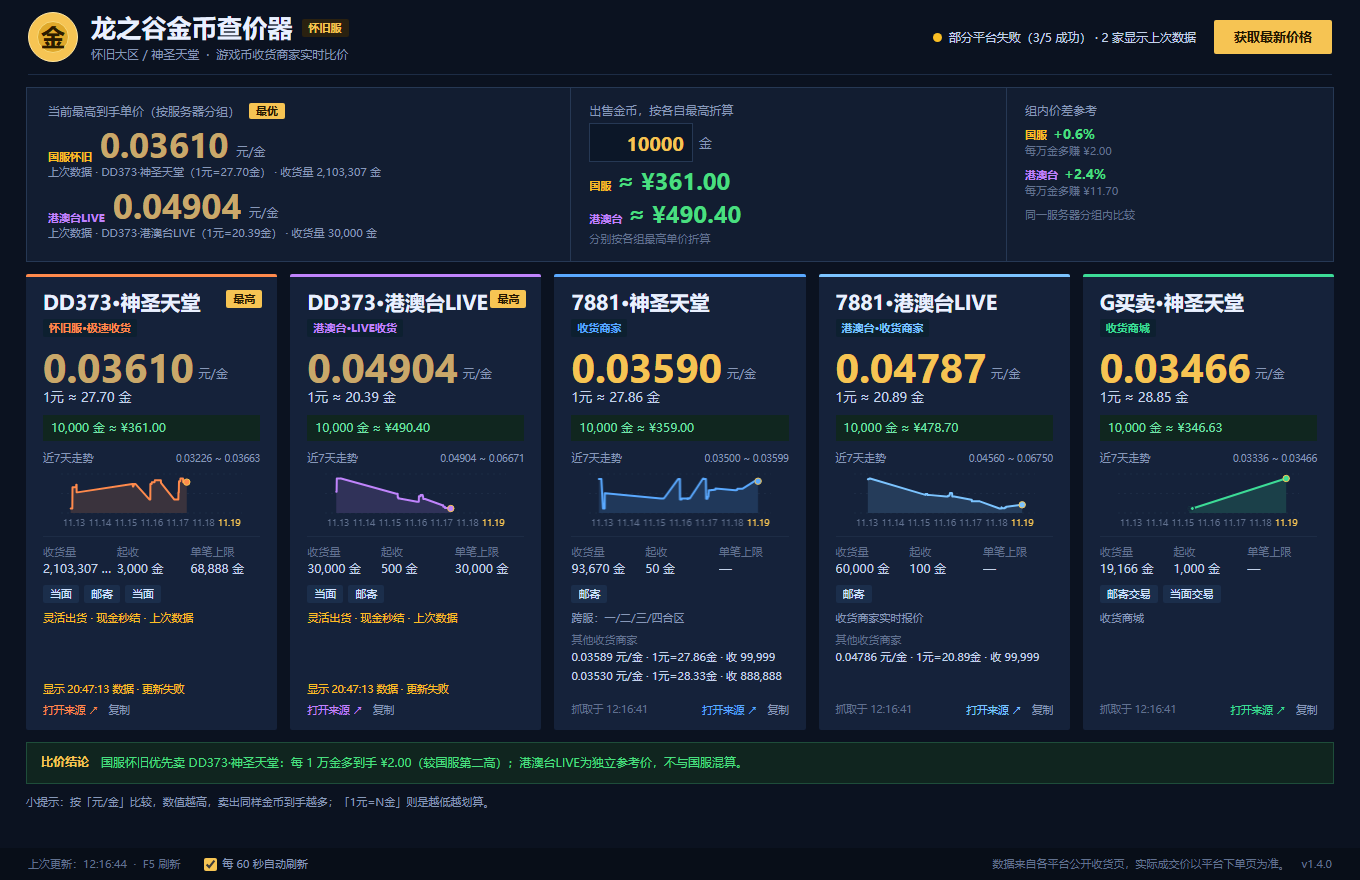
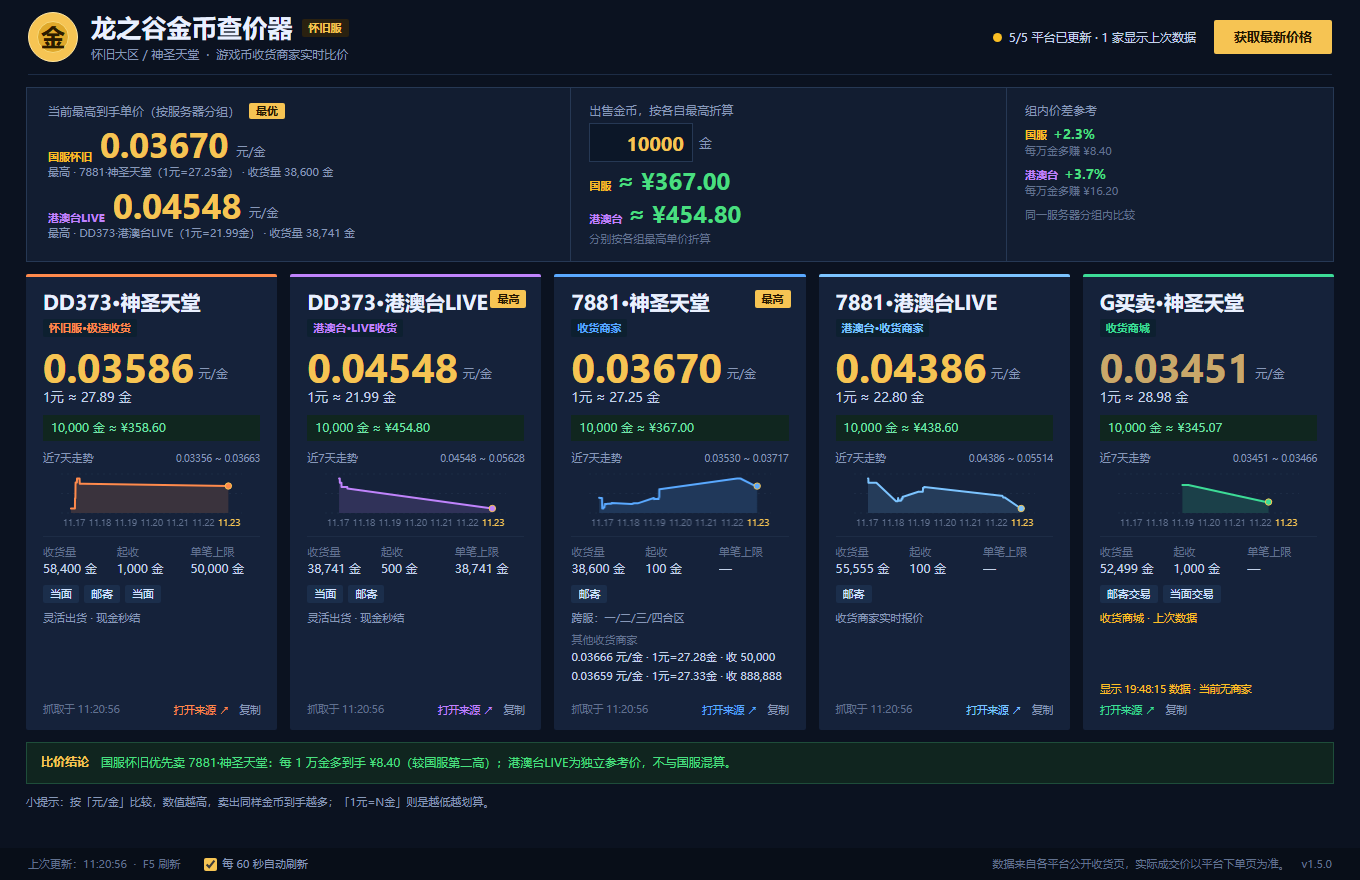
fix: use browser TLS fingerprint for DD373 (v1.5.0)
根因：DD373 的阿里云 WAF 按 TLS 指纹判定机器人，同一 IP 用浏览器正常、
用 urllib/.NET 只返回滑动验证页，与频率无关。

- 新增 CffiSession，用 curl_cffi impersonate=chrome 抓 DD373/DD373tw
- 7881、G买卖 继续用标准库（一直稳定）
- Windows 中文路径下 certifi 无法被 libcurl 读取时自动复制到 ASCII 路径
- DD373 间隔放宽到 300s，退避 10/20/30 分钟
- Dockerfile 增加 curl_cffi 与 ca-certificates（ARM64 有预编译 wheel）

diff --git a/app/goldpricer/fetchers.py b/app/goldpricer/fetchers.py
@@ -8,6 +8,7 @@ from __future__ import annotations
 
 import gzip
 import json
+import os
 import re
 import socket
 import threading
@@ -25,6 +26,13 @@ from lxml import html as lxml_html
 
 from . import config
 from .models import Offer, PlatformResult
+
+# curl_cffi 用来复刻真实浏览器的 TLS/HTTP2 指纹。
+# 没装时退回标准库，此时 DD373 只会拿到 WAF 的滑动验证页。
+try:
+    from curl_cffi import requests as _cffi_requests
+except Exception:  # noqa: BLE001
+    _cffi_requests = None
 
 
 UA = (
@@ -201,6 +209,118 @@ class HttpSession:
         return self._read(Request(url, data=body, headers=headers, method="POST"), timeout)
 
 
+_CA_CACHE: dict[str, object] = {}
+
+
+def _ca_bundle():
+    """给 libcurl 用的 CA 路径。
+
+    Windows 下如果项目路径含中文，libcurl 打不开 certifi 的 cacert.pem
+    （报 error adding trust anchors），所以先判断路径是否为纯 ASCII，
+    不是就复制一份到纯 ASCII 的临时目录。
+    """
+    if "path" in _CA_CACHE:
+        return _CA_CACHE["path"]
+    _CA_CACHE["path"] = True
+    try:
+        import shutil
+        import tempfile
+
+        import certifi
+
+        source = certifi.where()
+        if source.isascii() and os.path.exists(source):
+            _CA_CACHE["path"] = source
+            return source
+        for base in ("/tmp", tempfile.gettempdir(), r"C:\Temp", "/var/tmp"):
+            if not base.isascii() or not os.path.isdir(base):
+                continue
+            target = os.path.join(base, "goldpricer_cacert.pem")
+            try:
+                if not os.path.exists(target):
+                    shutil.copyfile(source, target)
+                _CA_CACHE["path"] = target
+                return target
+            except OSError:
+                continue
+    except Exception:  # noqa: BLE001 - 任何异常都退回 libcurl 默认行为
+        pass
+    return _CA_CACHE["path"]
+
+
+class CffiSession:
+    """用 curl_cffi 复刻真实浏览器的 TLS/HTTP2 指纹。
+
+    DD373 前置阿里云 WAF，会按 TLS 指纹把 Python/.NET 客户端判定为机器人，
+    同样的 IP 用浏览器能正常打开，用 urllib 只会拿到「滑动验证」页。
+    换成 Chrome 指纹后即可正常返回商品列表。
+    """
+
+    def __init__(self, timeout: int = 22, impersonate: str = "chrome"):
+        self.timeout = timeout
+        self._session = _cffi_requests.Session(
+            impersonate=impersonate,
+            timeout=timeout,
+            verify=_ca_bundle(),
+        )
+
+    def close(self) -> None:
+        try:
+            self._session.close()
+        except Exception:  # noqa: BLE001
+            pass
+
+    def _do(self, method: str, url: str, headers: dict, timeout, **kwargs) -> str:
+        try:
+            response = self._session.request(
+                method, url, headers=headers, timeout=timeout or self.timeout, **kwargs
+            )
+        except Exception as exc:  # noqa: BLE001
+            raise FetchError(f"连接失败：{exc}") from exc
+        if response.status_code >= 400:
+            raise FetchError(f"平台返回 HTTP {response.status_code}")
+        return response.text
+
+    def get(
+        self,
+        url: str,
+        referer: Optional[str] = None,
+        timeout: Optional[int] = None,
+        accept: str = "text/html,application/xhtml+xml,application/xml;q=0.9,*/*;q=0.8",
+    ) -> str:
+        headers = {
+            "Accept": accept,
+            "Accept-Language": "zh-CN,zh;q=0.9,en;q=0.6",
+        }
+        if referer:
+            headers["Referer"] = referer
+        return self._do("GET", url, headers, timeout)
+
+    def post_json(
+        self,
+        url: str,
+        payload,
+        referer: Optional[str] = None,
+        timeout: Optional[int] = None,
+    ) -> str:
+        headers = {
+            "Accept": "application/json,text/plain,*/*;q=0.8",
+            "Content-Type": "application/json;charset=UTF-8",
+            "Accept-Language": "zh-CN,zh;q=0.9,en;q=0.6",
+        }
+        if referer:
+            headers["Referer"] = referer
+        body = json.dumps(payload, ensure_ascii=False).encode("utf-8")
+        return self._do("POST", url, headers, timeout, data=body)
+
+
+def _browser_session():
+    """DD373 用浏览器指纹会话，其余平台仍用标准库（一直很稳定）。"""
+    if _cffi_requests is not None:
+        return CffiSession()
+    return HttpSession()
+
+
 class BaseFetcher:
     key = ""
     name = ""
@@ -251,12 +371,16 @@ class Dd373Fetcher(BaseFetcher):
     max_attempts = 1
 
     def __init__(self):
-        self._session = HttpSession()
+        self._session = _browser_session()
         self._warmed = False
         self._lock = threading.Lock()
 
     def _reset(self):
-        self._session = HttpSession()
+        try:
+            self._session.close()
+        except Exception:  # noqa: BLE001
+            pass
+        self._session = _browser_session()
         self._warmed = False
 
     def _warm(self):

diff --git a/app/goldpricer/config.py b/app/goldpricer/config.py
@@ -4,7 +4,7 @@
 import os
 
 APP_NAME = "龙之谷金币查价器"
-APP_VERSION = "1.4.1"
+APP_VERSION = "1.5.0"
 
 GAME_NAME = "龙之谷怀旧服"
 AREA_NAME = "怀旧大区"
@@ -31,12 +31,12 @@ DD373_GAME_ID = "cbk5a5"
 DD373_AREA_ID = "bqufr0"
 DD373_SERVER_ID = "j8cdwa"
 
-# DD373 前置阿里云 WAF，访问过密会让出口 IP 进入「滑动验证」状态，
-# 纯 HTTP 客户端无法通过，只能靠降低频次 + 失败退避来避免触发。
+# DD373 前置阿里云 WAF。抓取已改用 curl_cffi 的 Chrome 指纹（这是能拿到真实
+# 页面的关键），但请求密度仍然不宜太高，失败后也要退避，避免被额外盯上。
 # 单位：秒；可用环境变量覆盖，桌面版不设置时使用下面的默认值。
-DD373_MIN_INTERVAL = int(os.getenv("GOLDPRICER_DD373_INTERVAL", "600"))
-DD373_COOLDOWN_BASE = int(os.getenv("GOLDPRICER_DD373_COOLDOWN", "900"))
-DD373_COOLDOWN_MAX = int(os.getenv("GOLDPRICER_DD373_COOLDOWN_MAX", "3600"))
+DD373_MIN_INTERVAL = int(os.getenv("GOLDPRICER_DD373_INTERVAL", "300"))
+DD373_COOLDOWN_BASE = int(os.getenv("GOLDPRICER_DD373_COOLDOWN", "600"))
+DD373_COOLDOWN_MAX = int(os.getenv("GOLDPRICER_DD373_COOLDOWN_MAX", "1800"))
 
 # 7881（国服怀旧 / 港澳台LIVE 同 gameId，不同 groupId/serverId）
 L7881_URL = (

diff --git a/DOCKER部署说明.md b/DOCKER部署说明.md
@@ -163,35 +163,48 @@ cd /root/dragonnest && docker build -t dragonnest-goldpricer:1.4.0 . \
 | --- | --- | --- |
 | `GOLDPRICER_PORT` | `8090` | 容器内监听端口，改这里要同步改 `-p` 的容器侧端口 |
 | `GOLDPRICER_AUTO_SECONDS` | `60` | 后台抓取周期（秒），页面底部文案会跟着变 |
-| `GOLDPRICER_DD373_INTERVAL` | `600` | DD373 成功抓取后的最小间隔（秒），见下方说明 |
-| `GOLDPRICER_DD373_COOLDOWN` | `900` | DD373 首次失败后的冷却（秒），之后每次翻倍 |
-| `GOLDPRICER_DD373_COOLDOWN_MAX` | `3600` | DD373 冷却上限（秒），达到后不再翻倍 |
+| `GOLDPRICER_DD373_INTERVAL` | `300` | DD373 成功抓取后的最小间隔（秒），见下方说明 |
+| `GOLDPRICER_DD373_COOLDOWN` | `600` | DD373 首次失败后的冷却（秒），之后每次翻倍 |
+| `GOLDPRICER_DD373_COOLDOWN_MAX` | `1800` | DD373 冷却上限（秒），达到后不再翻倍 |
 | `GOLDPRICER_DATA_DIR` | `/data` | 数据目录，改了要同步改卷挂载 |
 | `TZ` | `Asia/Shanghai` | 容器时区 |
 
 端口被占用时只改宿主机侧即可，例如 `-p 8095:8090`，访问就变成 `http://192.168.1.1:8090`。
 
-### 关于 DD373 的抓取节奏
+### 关于 DD373 的抓取（重要）
 
-DD373 站点前面挂了阿里云 WAF。如果按 60 秒一轮全速抓，一天会产生上千次请求，出口 IP 很快会进入“滑动验证”状态——这种验证是拖动滑块，纯 HTTP 客户端过不去，程序只能一直失败。
+DD373 前置阿里云 WAF，它按 **TLS 指纹**识别客户端。同一台电脑、同一个 IP，用浏览器打开列表页完全正常，但 Python 标准库、.NET、curl 这些非浏览器 TLS 栈都会被判定成机器人，返回一个约 1.2 万字节的“滑动验证”页而不是商品列表。
 
-所以 DD373 两个平台单独走慢节奏：
+**这不是 IP 被封，也不是抓取频率太高**——把频率降到 10 分钟一次依然失败，换浏览器指纹的库立刻成功。
 
-- 默认每 10 分钟抓一次（`GOLDPRICER_DD373_INTERVAL=600`），7881 和 G买卖 仍然每 60 秒
-- 失败后自动退避：15 分钟 → 30 分钟 → 60 分钟，成功后计时清零
+所以 DD373 的抓取走 `curl_cffi`，它复刻 Chrome 的 TLS / HTTP2 指纹（`impersonate="chrome"`）。7881 和 G买卖 一直很稳定，仍用标准库。
+
+另外还保留了节奏保护，避免请求密度引来额外风控：
+
+- 默认每 5 分钟抓一次（`GOLDPRICER_DD373_INTERVAL=300`），7881 和 G买卖 仍 60 秒
+- 失败后自动退避：10 分钟 → 20 分钟 → 30 分钟，成功后计时清零
 - 退避期间**完全不发请求**，卡片保留上次价格并提示“约 N 分钟后自动重试”
 
-页面上的 DD373 数据最多会比 7881 慢 10 分钟，这是刻意换来的稳定性。如果确认没被 WAF 盯上，可以把间隔调小：
+代价是镜像多约 14MB（curl_cffi 自带 libcurl），页面上的 DD373 数据最多比 7881 慢 5 分钟。ARM64 有现成的预编译包，路由器上构建不需要编译工具链。
+
+DD373 显示失败时，先在容器里跑一次自检：
 
 ```sh
-docker run ... -e GOLDPRICER_DD373_INTERVAL=180 ...
+docker exec goldpricer python -c "
+from curl_cffi import requests
+r = requests.get('https://www.dd373.com/', impersonate='chrome', timeout=20)
+print(r.status_code, len(r.text))
+"
 ```
 
-如果 DD373 长期显示“触发人机验证”，说明出口 IP 已被标记，可以：
+返回 200 且长度十万级是正常的；如果只有一万多字节，说明又回到了验证页，可以调大间隔或换公网 IP 再试。
 
-1. 停掉容器半小时以上，别让它继续请求，等 WAF 释放
-2. 在浏览器里手动打开一次 DD373 列表页，确认能正常显示（会要求拖一次滑块）
-3. 之后用上面调大间隔的方式再启动
+如果想让 DD373 抓得更勤：
+
+```sh
+docker run ... -e GOLDPRICER_DD373_INTERVAL=120 ...
+```
+
 
 
 ---

diff --git a/README.md b/README.md
@@ -139,7 +139,7 @@ app/
 │   ├── server.py           # 标准库 HTTP 服务 + JSON API
 │   ├── templates/index.html
 │   └── static/             # app.css / app.js / icon.png
-├── Dockerfile              # 镜像定义（python:3.12-slim + lxml）
+├── Dockerfile              # 镜像定义（python:3.12-slim + lxml + curl_cffi）
 ├── docker-compose.yml
 ├── assets/icon.ico
 ├── check_data.py           # 命令行查看抓取结果
@@ -148,7 +148,9 @@ app/
 ```
 
 Web 版与桌面版共用 `goldpricer` 里的全部数据逻辑，只有 `ui.py` / `chart.py` 是桌面专用；
-`web/` 用 Python 标准库起 HTTP 服务，第三方依赖只有 `lxml`，所以镜像很小、路由器上构建也快。
+`web/` 用 Python 标准库起 HTTP 服务，第三方依赖只有 `lxml` 和 `curl_cffi`，所以镜像不大、路由器上构建也快。
+
+`curl_cffi` 只给 DD373 用：该平台前置阿里云 WAF，会按 TLS 指纹把 Python 客户端判定为机器人并下发滑动验证，换成 Chrome 指纹才能拿到真实页面。7881 和 G买卖 用标准库即可。
 
 运行数据目录默认跟随系统（Windows 是 `%LOCALAPPDATA%\DragonNestGoldPrice`），
 容器里通过环境变量 `GOLDPRICER_DATA_DIR=/data` 指定。
